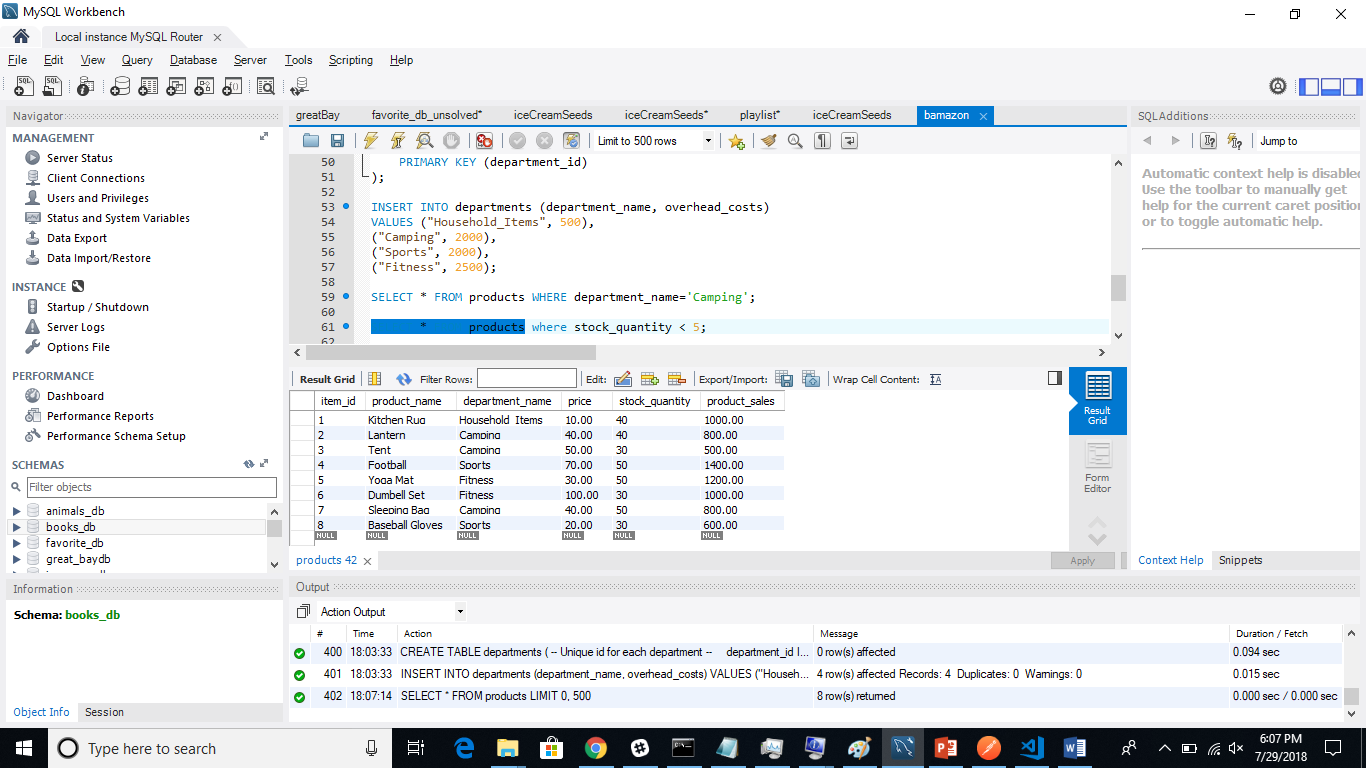
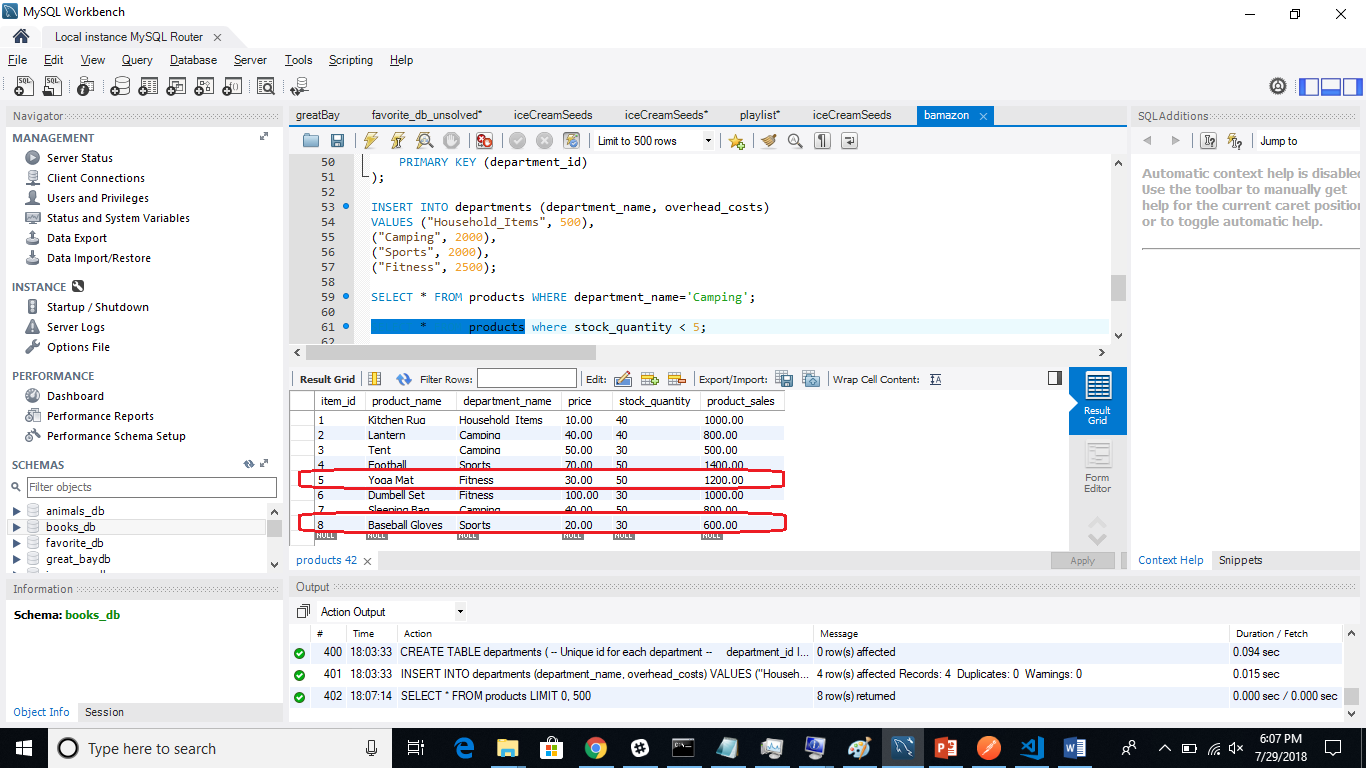
updated readme for bamazonCustomer

Changed region(s): [[0.2152, 0.5938, 0.5842, 0.7188]]

diff --git a/README.md b/README.md
@@ -3,3 +3,9 @@
 Bamazon Customer</br>
 In the customer site, first we see below a snapshot of the products table. Note the stock quantities and product sales columns for item ids 5 and 8</br>
 ![](screenshots/products_original.png)
+After customer purchases item ids 5 & 8, worth 10 units each see the updated quantities in stocks and increased product sales for these 2 items.</br>
+see below the gif for the bamazonCustomer application showing the purchase happening...
+![](gifs/bamazonCustomer.gif)
+Finally please see the updated values of stock quantity and product sales after the 2 purchases for those 2 items</br>
+![](screenshots/products_5_8_purchase.png)
+
